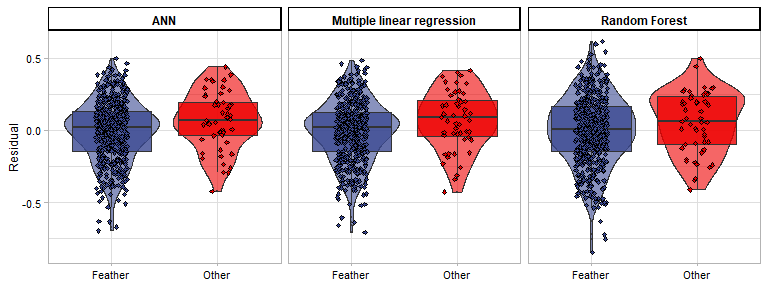
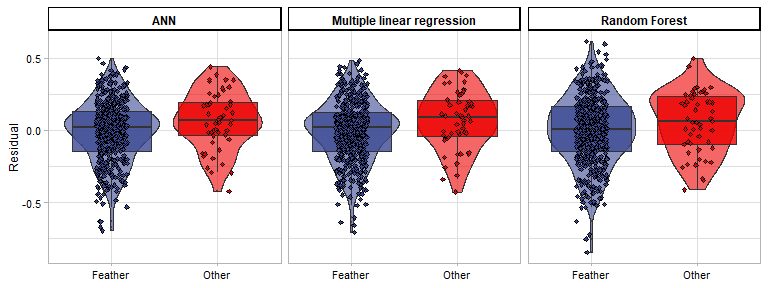
predictions

diff --git a/01-Complete-script.md b/01-Complete-script.md
@@ -1620,6 +1620,8 @@ training, but this diminishment is not significative.
 ``` r
 # Get predictions from models with no collinear variables
 # and transform into linear scale for further use
+
+# Multiple Linear regression and join with previous predictions
 lm.pred <- as.data.frame(lm.model1$pred) %>% 
 group_by(rowIndex) %>% 
   summarise(
@@ -1629,6 +1631,15 @@ group_by(rowIndex) %>%
   Weigh = 10^obs,
   Pred.Weight = 10^pred)
 
+lm.pred <- cbind(
+  lm.pred, 
+(MLR_model$pred %>% group_by(rowIndex) %>% 
+  summarise(coll.pred = mean(pred),
+            coll.obs = mean(obs)) %>% 
+  mutate(Coll.pred.Weight = 10^coll.pred) %>% 
+   select(-rowIndex))) 
+
+# ANN and join with previous predictions
 nnet.pred <- as.data.frame(nnet_model$pred) %>% 
   group_by(rowIndex) %>% 
   summarise(
@@ -1638,6 +1649,16 @@ nnet.pred <- as.data.frame(nnet_model$pred) %>%
     Weigh = 10^obs,
     Pred.Weight = 10^pred)
 
+nnet.pred <- cbind(
+  nnet.pred, 
+  (nnet_model_f$pred %>% group_by(rowIndex) %>% 
+     summarise(coll.pred = mean(pred),
+               coll.obs = mean(obs)) %>% 
+     mutate(Coll.pred.Weight = 10^coll.pred) %>% 
+     select(-rowIndex))) 
+
+
+# RF and join with previous predictions
 RF.pred <- as.data.frame(RF.model3$pred) %>% 
   group_by(rowIndex) %>% 
   summarise(
@@ -1646,6 +1667,13 @@ RF.pred <- as.data.frame(RF.model3$pred) %>%
   mutate(
     Weigh = 10^obs,
     Pred.Weight = 10^pred)
+RF.pred <- cbind(
+  RF.pred, 
+  (RF_model$pred %>% group_by(rowIndex) %>% 
+     summarise(coll.pred = mean(pred),
+               coll.obs = mean(obs)) %>% 
+     mutate(Coll.pred.Weight = 10^coll.pred) %>% 
+     select(-rowIndex))) 
 ```
 
 ``` r
@@ -1653,55 +1681,49 @@ RF.pred <- as.data.frame(RF.model3$pred) %>%
 t.test(lm.pred$pred, lm.pred$coll.pred)
 ```
 
-    ## Warning: Unknown or uninitialised column: `coll.pred`.
-
     ## 
-    ##  One Sample t-test
+    ##  Welch Two Sample t-test
     ## 
-    ## data:  lm.pred$pred
-    ## t = 64.776, df = 499, p-value < 2.2e-16
-    ## alternative hypothesis: true mean is not equal to 0
+    ## data:  lm.pred$pred and lm.pred$coll.pred
+    ## t = -0.0025274, df = 997.85, p-value = 0.998
+    ## alternative hypothesis: true difference in means is not equal to 0
     ## 95 percent confidence interval:
-    ##  1.079283 1.146803
+    ##  -0.04804233  0.04791873
     ## sample estimates:
-    ## mean of x 
-    ##  1.113043
+    ## mean of x mean of y 
+    ##  1.113043  1.113105
 
 ``` r
 t.test(nnet.pred$pred, nnet.pred$coll.pred)
 ```
 
-    ## Warning: Unknown or uninitialised column: `coll.pred`.
-
     ## 
-    ##  One Sample t-test
+    ##  Welch Two Sample t-test
     ## 
-    ## data:  nnet.pred$pred
-    ## t = 64.613, df = 499, p-value < 2.2e-16
-    ## alternative hypothesis: true mean is not equal to 0
+    ## data:  nnet.pred$pred and nnet.pred$coll.pred
+    ## t = 7.5427e-06, df = 997.9, p-value = 1
+    ## alternative hypothesis: true difference in means is not equal to 0
     ## 95 percent confidence interval:
-    ##  1.079094 1.146778
+    ##  -0.04803739  0.04803776
     ## sample estimates:
-    ## mean of x 
-    ##  1.112936
+    ## mean of x mean of y 
+    ##  1.112936  1.112936
 
 ``` r
 t.test(RF.pred$pred, RF.pred$coll.pred)
 ```
 
-    ## Warning: Unknown or uninitialised column: `coll.pred`.
-
     ## 
-    ##  One Sample t-test
+    ##  Welch Two Sample t-test
     ## 
-    ## data:  RF.pred$pred
-    ## t = 81.747, df = 499, p-value < 2.2e-16
-    ## alternative hypothesis: true mean is not equal to 0
+    ## data:  RF.pred$pred and RF.pred$coll.pred
+    ## t = -0.080636, df = 995.11, p-value = 0.9357
+    ## alternative hypothesis: true difference in means is not equal to 0
     ## 95 percent confidence interval:
-    ##  1.080997 1.134238
+    ##  -0.04024728  0.03707017
     ## sample estimates:
-    ## mean of x 
-    ##  1.107618
+    ## mean of x mean of y 
+    ##  1.107618  1.109206
 
 ``` r
 # Performance metrics of best models without collinear variables in the linear scale
